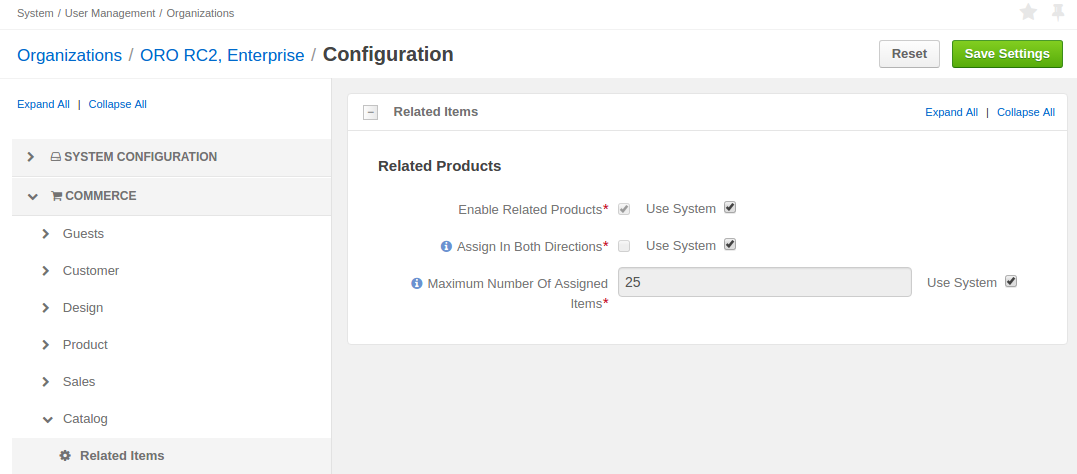
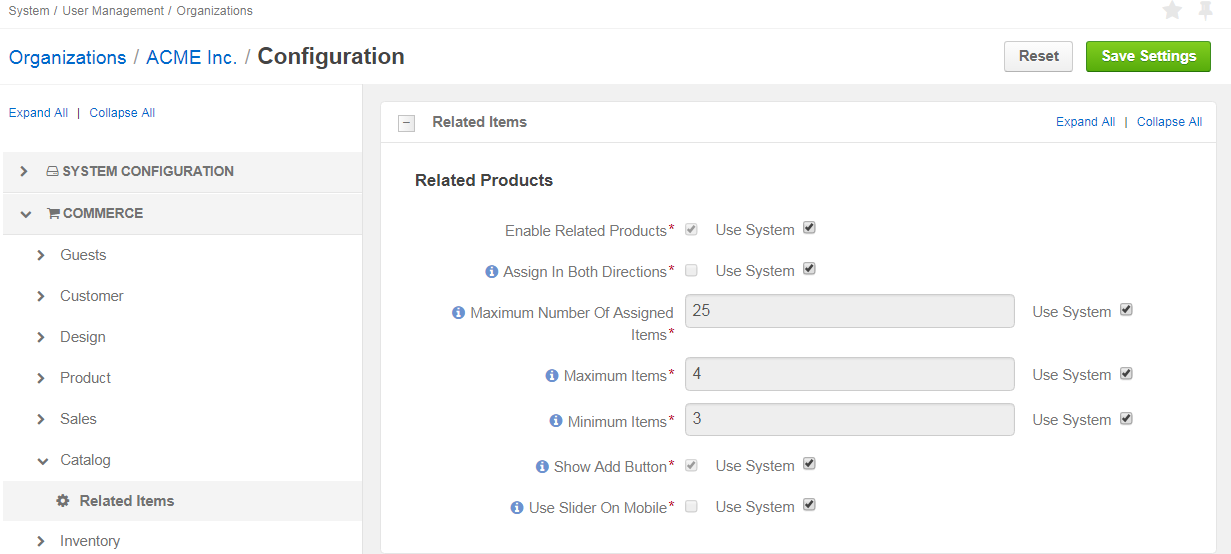
DOC-147: Documentation update. New config parameters for related products. (#11862)
* DOC-147: new config parameters

* DOC-147: Documentation update. New config parameters for related products.

-minor fixes (updated screens for org and web levels)
-fixed typo

diff --git a/commerce/user_guide/products/configuration/global_related_products.rst b/commerce/user_guide/products/configuration/global_related_products.rst
@@ -9,7 +9,7 @@ Enable Related Products Globally
 
 .. begin_related_products_definition
 
-Related items listed for the product may include accessories, services, and otehr items that are likely to be purchased in the same order.  They help navigation through the product catalog in the management console.
+Related items listed for the product may include accessories, services, and other items that are likely to be purchased in the same order.  They help navigation through the product catalog in the management console.
 
 .. TODO update when they get to the front store
 
@@ -40,6 +40,21 @@ To update the related products settings globally:
    * Enable Related Products --- Toggles managing related items on/off. Enabled by default.
    * Assign in Both Directions --- When enabled, the products become mutually related. For example, when you add a lightning bulb as a related product for a standing lamp, the relation works both ways and the lamp automatically becomes related item of the lightning bulb. This option is disabled by default.
    * Maximum Number Of Assigned Items --- A limit of related items that may be added to any product.
+   * Maximum Items --- A limit of related products that are shown to the buyer. Note: Some related items may be hidden by the visibility settings. If the list of related products still exceeds the limit, only the specified number of items (top of the list) will be shown.
+   * Minimum Items --- The minimum number of related products that may be shown to the buyer. If the actual number of products is less than this value, the related products section is hidden in the front store for the product.
+   * Show Add Button --- Enables a buyer to order the related product from the related products section in the main product details. When disabled, a buyer needs to open the related product information before they can add it to the shopping list.
+
+     **Show Add Button is Enabled**
+
+     .. image:: /user_guide/img/products/products/RelatedProductPreviewWithAdd.png
+        :class: with-border
+
+     **Show Add Button is Disabled**
+
+     .. image:: /user_guide/img/products/products/RelatedProductPreview.png
+        :class: with-border
+
+   * Use Slider On Mobile --- When enabled, one related product is displayed below the main product information. Other related products are accessible using the horizontal slider. Click < and > to slide through the related products.
 
    .. finish_related_products_option_description
 
